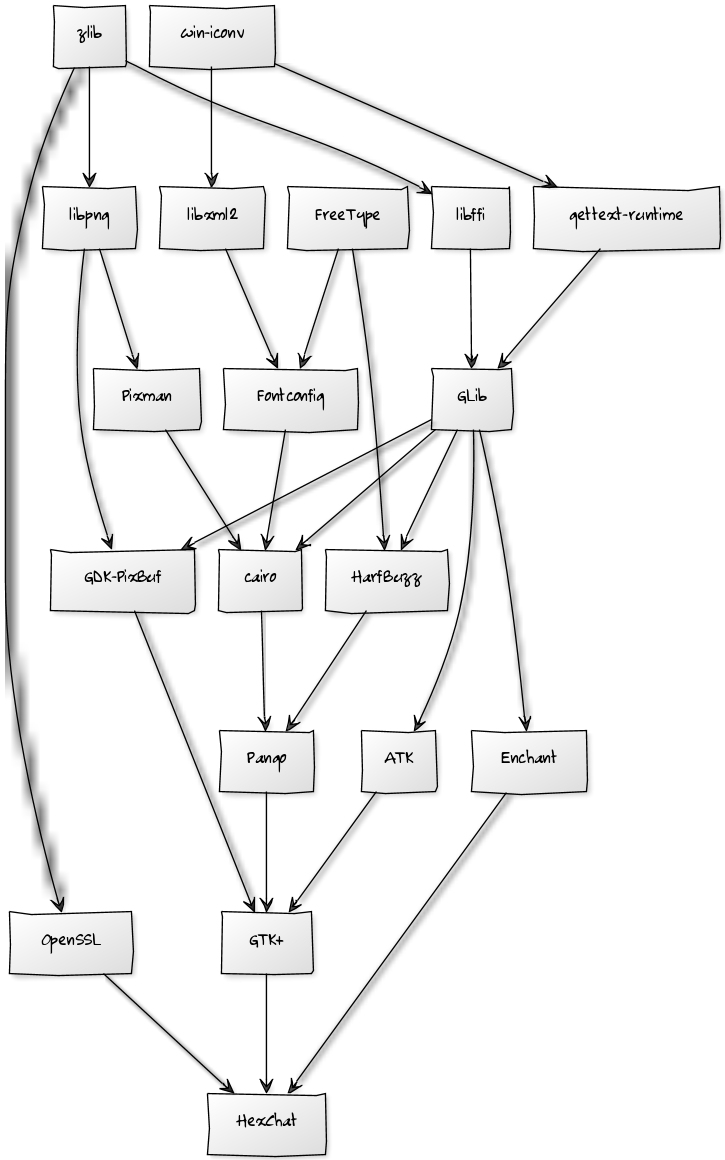
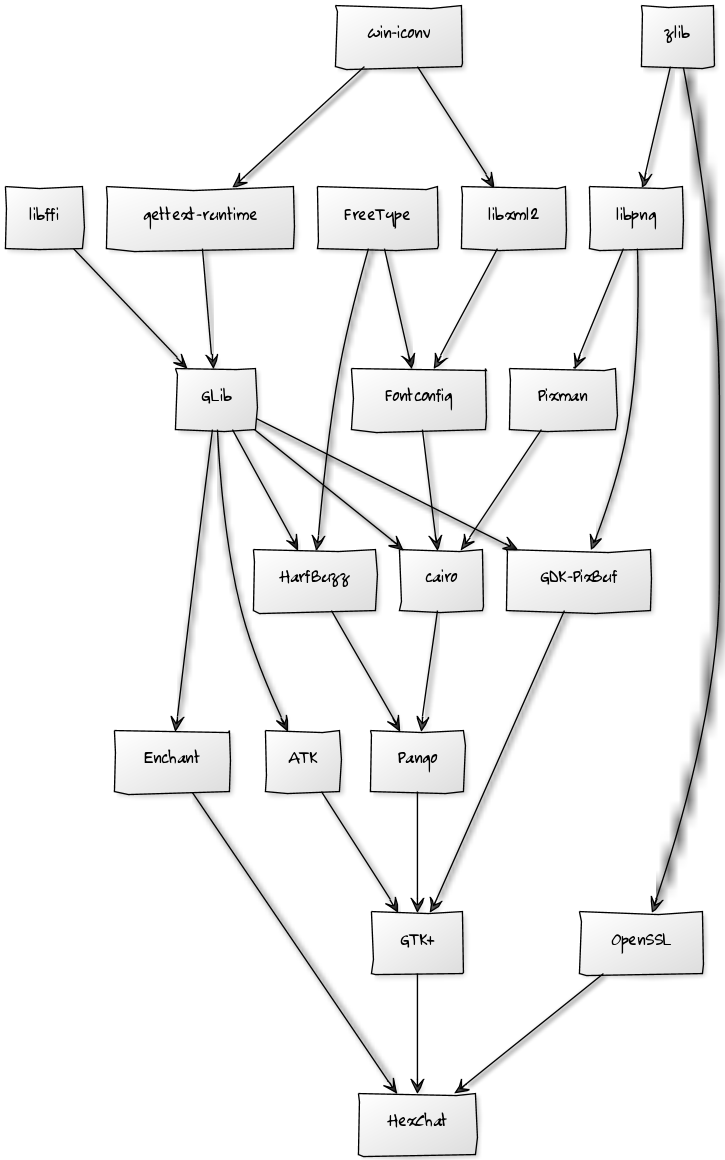
Update graph and site according to libffi

diff --git a/index.md b/index.md
@@ -57,31 +57,31 @@ These are the separate packages for advanced users. These also require the redis
 </tr>
 
 <tr class="even">
+<td>libffi</td>
+<td class="current">3.0.11</td>
+<td><a href="http://dl.hexchat.org/gtk-win32/vc10/x86/libffi-3.0.11-x86.7z">32 bit</a></td>
+<td><a href="http://dl.hexchat.org/gtk-win32/vc10/x64/libffi-3.0.11-x64.7z">64 bit</a></td>
+</tr>
+
+<tr>
 <td>libxml2</td>
 <td class="current">2.9.0</td>
 <td><a href="http://dl.hexchat.org/gtk-win32/vc10/x86/libxml2-2.9.0-x86.7z">32 bit</a></td>
 <td><a href="http://dl.hexchat.org/gtk-win32/vc10/x64/libxml2-2.9.0-x64.7z">64 bit</a></td>
 </tr>
 
-<tr>
+<tr class="even">
 <td>gettext-runtime</td>
 <td class="current">0.18</td>
 <td><a href="http://dl.hexchat.org/gtk-win32/vc10/x86/gettext-runtime-0.18-x86.7z">32 bit</a></td>
 <td><a href="http://dl.hexchat.org/gtk-win32/vc10/x64/gettext-runtime-0.18-x64.7z">64 bit</a></td>
 </tr>
 
-<tr class="even">
+<tr>
 <td>OpenSSL</td>
 <td class="current">1.0.1e</td>
 <td><a href="http://dl.hexchat.org/gtk-win32/vc10/x86/openssl-1.0.1e-x86.7z">32 bit</a></td>
 <td><a href="http://dl.hexchat.org/gtk-win32/vc10/x64/openssl-1.0.1e-x64.7z">64 bit</a></td>
-</tr>
-
-<tr>
-<td>libffi</td>
-<td class="current">3.0.11</td>
-<td><a href="http://dl.hexchat.org/gtk-win32/vc10/x86/libffi-3.0.11-x86.7z">32 bit</a></td>
-<td><a href="http://dl.hexchat.org/gtk-win32/vc10/x64/libffi-3.0.11-x64.7z">64 bit</a></td>
 </tr>
 
 <tr class="even">
@@ -201,6 +201,14 @@ As you can see, these libraries have a quite complex dependency order, so it's r
  * open _builds\win32\vc11\freetype.sln_ and compile for Win32 or x64
  * run _release-x86.bat_ or _release-x64.bat_
 
+### libffi
+ * download [libffi 3.0.12](http://dl.hexchat.org/gtk-win32/src/libffi-3.0.12.7z)
+ * extract as _C:\mozilla-build\hexchat\libffi-3.0.12_
+ * copy the [HexChat fixes](https://github.com/hexchat/gtk-win32/tree/master/libffi) to this folder
+ * start a shell with _start-msvc10.bat_ or _start-msvc10-x64.bat_ from MozillaBuild
+ * in this shell, run _build-x86.bat_ or _build-x64.bat_
+ * in a regular command prompt, run _release-x86.bat_ or _release-x64.bat_
+
 ### libxml2
  * download [libxml2 2.9.0](http://dl.hexchat.org/gtk-win32/src/libxml2-2.9.0.7z)
  * extract as _C:\mozilla-build\hexchat\libxml2-2.9.0_
@@ -223,14 +231,6 @@ As you can see, these libraries have a quite complex dependency order, so it's r
  * copy the [HexChat fixes](https://github.com/hexchat/gtk-win32/tree/master/openssl) to this folder
  * open VS x86 or x64 command prompt
  * run _build-x86.bat_ or _build-x64.bat_
-
-### libffi
- * download [libffi 3.0.11](http://dl.hexchat.org/gtk-win32/src/libffi-3.0.11.7z)
- * extract as _C:\mozilla-build\hexchat\libffi-3.0.11_
- * copy the [HexChat fixes](https://github.com/hexchat/gtk-win32/tree/master/libffi) to this folder
- * start a shell with _start-msvc10.bat_ or _start-msvc10-x64.bat_ from MozillaBuild
- * in this shell, run _build-x86.bat_ or _build-x64.bat_
- * in a regular command prompt, run _release-x86.bat_ or _release-x64.bat_
 
 ### libpng
  * download [libpng 1.5.14](http://dl.hexchat.org/gtk-win32/src/libpng-1.5.14.7z)
